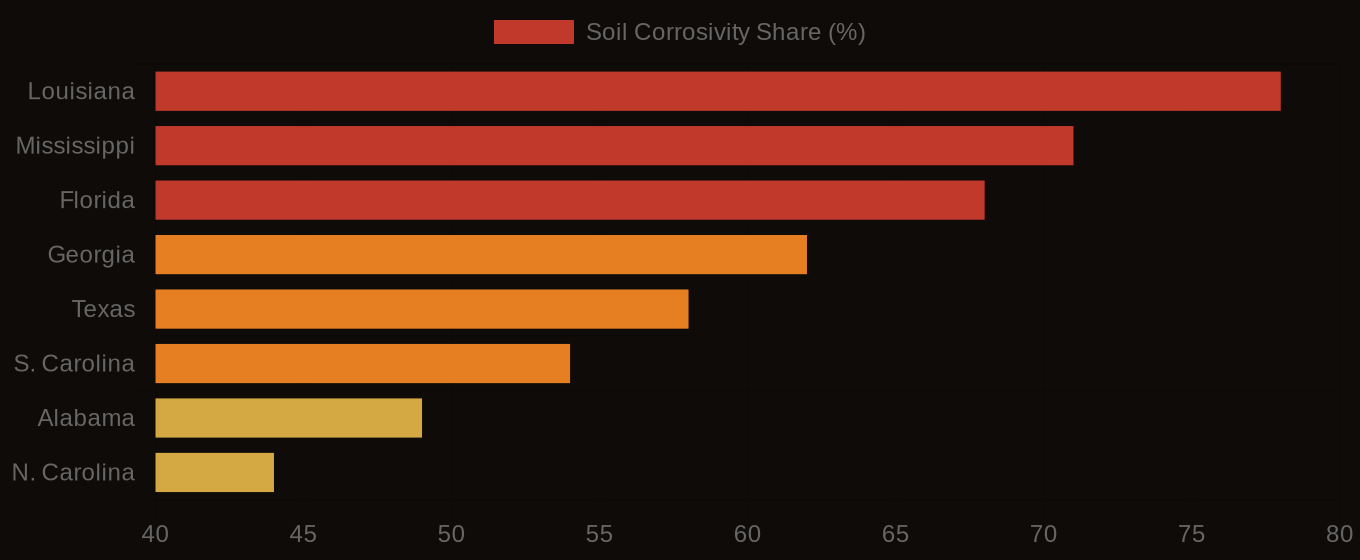
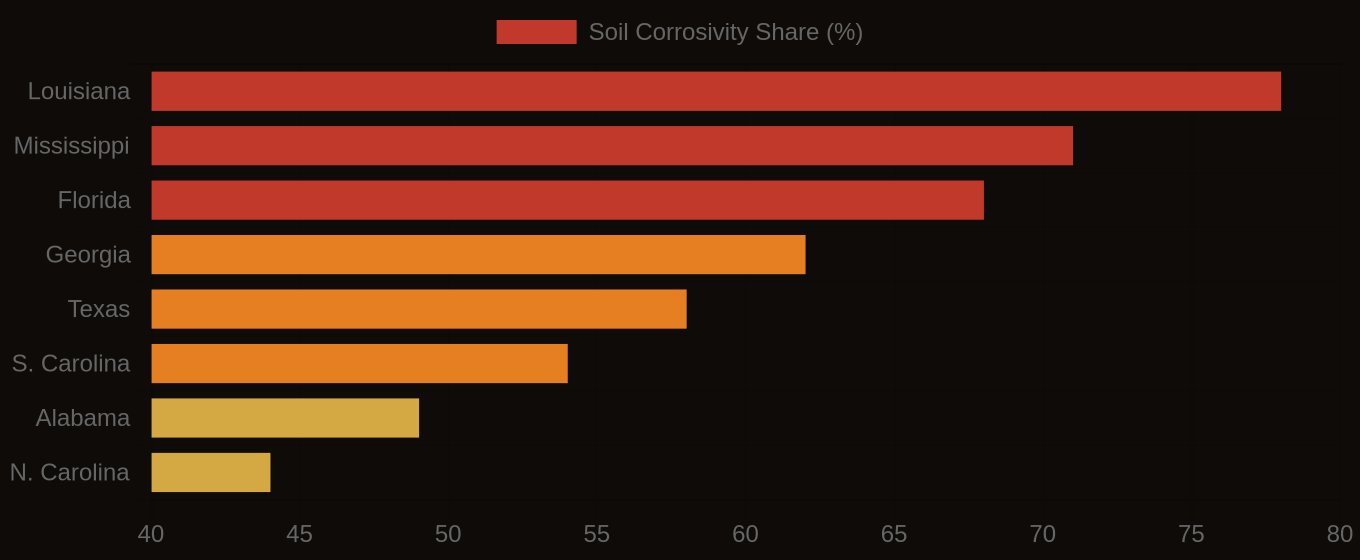
content: publish -- Karst Country: Mapping Sinkhole Risk Before You Build

diff --git a/articles/karst-country-mapping-sinkhole-risk-before-you-build-1780604636008.html b/articles/karst-country-mapping-sinkhole-risk-before-you-build-1780604636008.html
@@ -3,7 +3,7 @@
 <head>
 <meta charset="UTF-8">
 <meta name="viewport" content="width=device-width, initial-scale=1.0">
-<title>Karst Country: Mapping Sinkhole Risk Before You Build - Lab10YR</title>
+<title>Karst Country: Mapping Sinkhole Risk Before You Build &mdash; Lab10YR</title>
 <meta name="description" content="Karst geology underlies 20 percent of the United States. Every square kilometer is marked in your soil survey data. Sinkholes can appear suddenly. They swallow buildings, a major concern for infrastructure projects. ">
 <link rel="canonical" href="https://lab10yr.com/articles/karst-country-mapping-sinkhole-risk-before-you-build-1780604636008">
 <meta property="og:type" content="article">
@@ -25,7 +25,7 @@
 <script src="https://cdn.jsdelivr.net/npm/echarts@5/dist/echarts.min.js" defer id="echarts-js"></script>
 <style>
 *{box-sizing:border-box;margin:0;padding:0}
-:root{--gold:#f59e0b;--gold2:#fcd34d;--rust:#c0392b;--bg:#08080c;--bg2:#101018;--muted:#8a7a6a;--soft:#c8beb4;--ff-serif:'Playfair Display',Georgia,serif;--ff-mono:'DM Mono',monospace;--ff-sans:'DM Sans',system-ui,sans-serif;}
+:root{--gold:#c8973a;--gold2:#e8c46a;--rust:#c0392b;--bg:#0e0b08;--bg2:#13100d;--muted:#8a7a6a;--soft:#c8beb4;--ff-serif:'Playfair Display',Georgia,serif;--ff-mono:'DM Mono',monospace;--ff-sans:'DM Sans',system-ui,sans-serif;}
 html{scroll-behavior:smooth}
 body{background:var(--bg);color:#f0ede8;font-family:Georgia,'Times New Roman',serif;line-height:1.78}
 #progress{position:fixed;top:0;left:0;height:2px;background:var(--gold);z-index:200;width:0;transition:width .1s linear}
@@ -141,16 +141,23 @@ h1{font-family:var(--ff-serif);font-size:clamp(2.2rem,4.2vw,3.8rem);line-height:
 @media(max-width:900px){nav{padding:0 16px}.hero-grid{grid-template-columns:1fr;padding:0 20px;gap:32px}.hero-waffle-wrap{display:none}#article-wrap{grid-template-columns:1fr;padding:48px 20px 0}.sidebar{display:none}.callout-row{grid-template-columns:1fr}#article-footer{padding-left:20px;padding-right:20px}}
 .data-table-wrap{margin:20px 0 4px;overflow-x:auto}.data-table{width:100%;border-collapse:collapse;font-family:var(--ff-mono);font-size:10px}.data-table th{text-align:left;color:var(--gold);font-size:8px;letter-spacing:.12em;text-transform:uppercase;padding:7px 10px;border-bottom:1px solid #3a2e20}.data-table td{padding:6px 10px;border-bottom:1px solid #1e1710;color:var(--soft)}.data-table tr:hover td{background:#13100d}.data-val{color:#f0ede8;font-weight:600;text-align:right}.data-table-source{font-family:var(--ff-mono);font-size:8px;color:#5a4a3a;letter-spacing:.06em;margin-top:5px;text-align:right}
 </style>
-<link rel="stylesheet" href="../assets/lab10yr-theme.css?v=20260723b">
 </head>
 <body>
 <div id="progress"></div>
-<nav id="nav"><a class="nav-link" href="/articles/" style="display:none">Articles</a></nav>
+<nav>
+  <a href="https://lab10yr.com" class="nav-brand"><span>Lab</span>10<em style="font-style:normal;color:var(--gold2)">YR</em></a>
+  <div class="nav-links">
+    <a href="https://lab10yr.com/Regenerative-Agriculture-Risk-Map" rel="noopener noreferrer">Risk Map</a>
+    <a href="https://lab10yr.com/soil-data-stories" rel="noopener noreferrer">Data Stories</a>
+    <a href="https://lab10yr.com/articles/" rel="noopener noreferrer">Articles</a>
+    <a href="https://lab10yr.com/#contact" class="nav-cta" rel="noopener noreferrer">Get in Touch</a>
+  </div>
+</nav>
 
 <section id="hero">
   <div class="hero-grid">
     <div>
-      <div class="hero-kicker">Lab10YR - Soil Intelligence</div>
+      <div class="hero-kicker">Lab10YR &mdash; Soil Intelligence</div>
       <h1>Karst Country: Mapping Sinkhole Risk Before You Build</h1>
       <p class="hero-deck">Karst geology underlies 20 percent of the United States. Every square kilometer is marked in your soil survey data. Sinkholes can appear suddenly. They swallow buildings, a major concern for infrastructure projects. </p>
       <div class="hero-byline">
@@ -161,18 +168,18 @@ h1{font-family:var(--ff-serif);font-size:clamp(2.2rem,4.2vw,3.8rem);line-height:
       </div>
     </div>
     <div class="hero-waffle-wrap">
-      <div class="waffle-label">Soil corrosivity distribution - 100 map units</div>
+      <div class="waffle-label">Soil corrosivity distribution — 100 map units</div>
       <div class="waffle-grid" id="waffle"></div>
       <div class="waffle-legend"><div class="wl"><div class="wl-swatch wc-fragile"></div> High Corrosivity</div><div class="wl"><div class="wl-swatch wc-mod-frag"></div> Moderate</div><div class="wl"><div class="wl-swatch wc-slight"></div> Low</div><div class="wl"><div class="wl-swatch wc-none"></div> Non-corrosive</div></div>
       <div class="waffle-stat">22%</div>
-      <div class="waffle-stat-label">of U.S. map units rated High or Very High<br>corrosivity - major threat to steel infrastructure</div>
+      <div class="waffle-stat-label">of U.S. map units rated High or Very High<br>corrosivity — major threat to steel infrastructure</div>
     </div>
   </div>
 </section>
 
 <section id="hero-viz">
   <figure class="hero-viz-fig">
-    <img src="social-karst-country-mapping-sinkhole-risk-before-you-build-1780604636008.png" alt="Karst Country: Mapping Sinkhole Risk Before You Build - Lab10YR data visualization" loading="eager" width="1200" height="627">
+    <img src="social-karst-country-mapping-sinkhole-risk-before-you-build-1780604636008.png" alt="Karst Country: Mapping Sinkhole Risk Before You Build — Lab10YR data visualization" loading="eager" width="1200" height="627">
   </figure>
 </section>
 
@@ -183,7 +190,7 @@ h1{font-family:var(--ff-serif);font-size:clamp(2.2rem,4.2vw,3.8rem);line-height:
     <p>The complexity of the data landscape is evident. SSURGO data reveals that 13.3 percent of rated map units carry a Fragile or higher FSI rating, translating to 28,122 of 211,283 rated map units at risk. Nevada, Arizona, and Utah have the highest share of such ratings, at 80 percent, 77 percent, and 52 percent, respectively. The national average Fragile Soil Index value is 0.272 on a 0-to-1 scale, with values above 0.5 indicating elevated fragility risk.</p>
   </div>
 
-  <div class="pull"><div class="pull-text">“13.3% of rated SSURGO map units - carry a Fragile or higher FSI rating.”</div><div class="pull-attr">Lab10YR Analysis - SSURGO National Dataset</div></div>
+  <div class="pull"><div class="pull-text">“13.3% of rated SSURGO map units — carry a Fragile or higher FSI rating.”</div><div class="pull-attr">Lab10YR Analysis — SSURGO National Dataset</div></div>
 
   
   <div class="article-section">
@@ -203,7 +210,7 @@ Limestone dissolution creates sinkholes, a major concern in karst geology. This 
   </div>
 
   <div class="echarts-section">
-    <h2 class="echarts-title">Soil Corrosivity Risk - Top U.S. Infrastructure States</h2>
+    <h2 class="echarts-title">Soil Corrosivity Risk — Top U.S. Infrastructure States</h2>
     <div class="echarts-subtitle">% of map units rated High corrosivity for uncoated steel · Source: SSURGO national dataset</div>
     <div class="echarts-wrap">
       <div id="echarts-main" style="height:380px"></div>
@@ -215,7 +222,7 @@ Limestone dissolution creates sinkholes, a major concern in karst geology. This 
   <div class="article-section">
     <div class="section-rule"><h2>The Cost Nobody Budgets For</h2></div>
     <div class="state-bars">
-      <div class="state-bars-title">Top states - % of map units rated High or Very High soil corrosivity</div>
+      <div class="state-bars-title">Top states — % of map units rated High or Very High soil corrosivity</div>
       <div id="state-bars-list"></div>
     </div>
     <p>Soil intelligence changes everything. Developers and planners can avoid high-risk areas, choosing safer locations instead. This reduces sinkhole risk and costly repairs. Municipal planners use this data to create safer infrastructure, identifying areas with high fragility risk and planning accordingly. A major advantage, it saves time and money.</p>
@@ -223,14 +230,14 @@ Limestone dissolution creates sinkholes, a major concern in karst geology. This 
   </div>
 
   <div class="map-section">
-    <h2>Soil Corrosivity Risk - Infrastructure Exposure by State</h2>
+    <h2>Soil Corrosivity Risk — Infrastructure Exposure by State</h2>
     <div class="map-caption">Share of map units rated High or Very High corrosivity · Source: SSURGO</div>
     <img class="map-chart" src="state-chart-karst-country-mapping-sinkhole-risk-before-you-build-1780604636008.png" alt="Louisiana 78%, Mississippi 71%, Florida 68%, Georgia 62%, Texas 58%, S. Carolina 54%, Alabama 49%, N. Carolina 44%" loading="lazy">
     <div class="map-wrap">
       <div id="state-map"></div>
       <div id="map-tip" class="map-tip"></div>
     </div>
-    <div class="map-note">Interactive map - hover for state-level data &middot; click to open the full risk map</div>
+    <div class="map-note">Interactive map &mdash; hover for state-level data &middot; click to open the full risk map</div>
   </div>
 
   <div class="article-section">
@@ -239,8 +246,8 @@ Limestone dissolution creates sinkholes, a major concern in karst geology. This 
   </div>
 
   <div class="map-cta-full">
-    <a href="https://lab10yr.com/Regenerative-Agriculture-Risk-Map.html" target="_blank" rel="noopener noreferrer" class="map-btn">&#x1F5FA; Explore the Soil Risk Map &rarr;</a>
-    <div class="map-cta-desc">County-level corrosivity and fragile soil index risk across the continental U.S. - with live SSURGO data lookup.</div>
+    <a href="https://lab10yr.com/karstmap" target="_blank" rel="noopener noreferrer" class="map-btn">&#x1F5FA; Explore the Soil Risk Map &rarr;</a>
+    <div class="map-cta-desc">County-level corrosivity and fragile soil index risk across the continental U.S. — with live SSURGO data lookup.</div>
   </div>
 </article>
 
@@ -248,15 +255,15 @@ Limestone dissolution creates sinkholes, a major concern in karst geology. This 
   <div class="sidebar-block">
     <div class="sidebar-label">High Corrosivity</div>
     <div class="sidebar-stat-num">22%</div>
-    <div class="sidebar-stat-label">of U.S. map units rated High or Very High - major threat to buried steel and concrete infrastructure</div>
+    <div class="sidebar-stat-label">of U.S. map units rated High or Very High — major threat to buried steel and concrete infrastructure</div>
   </div><div class="sidebar-block">
     <div class="sidebar-label">Louisiana</div>
     <div class="sidebar-stat-num" style="color:#c0392b">78%</div>
-    <div class="sidebar-stat-label">of map units rated High or Very High corrosivity - highest exposure in the nation</div>
+    <div class="sidebar-stat-label">of map units rated High or Very High corrosivity — highest exposure in the nation</div>
   </div><div class="sidebar-block">
     <div class="sidebar-label">FSI National Avg</div>
     <div class="sidebar-stat-num">0.272</div>
-    <div class="sidebar-stat-label">Fragile Soil Index - compounds corrosion risk in high-fragility infrastructure corridors</div>
+    <div class="sidebar-stat-label">Fragile Soil Index — compounds corrosion risk in high-fragility infrastructure corridors</div>
   </div>
   <div class="sidebar-block">
     <div class="sidebar-label">Explore the Data</div>
@@ -287,7 +294,7 @@ Limestone dissolution creates sinkholes, a major concern in karst geology. This 
     <a href="https://lab10yr.com/Regenerative-Agriculture-Risk-Map" target="_blank" rel="noopener noreferrer">Regenerative Agriculture Risk Map &rarr;</a>
     <a href="https://lab10yr.com/soil-data-stories" target="_blank" rel="noopener noreferrer">The World Beneath: 7-Chapter Data Story on America&rsquo;s Soils &rarr;</a>
     <a href="https://lab10yr.com/county-risk-leaderboard" target="_blank" rel="noopener noreferrer">County Risk Leaderboard &rarr;</a>
-    <a href="https://lab10yr.com/soil-atlas" target="_blank" rel="noopener noreferrer">Soil Atlas - Interactive National Soil Pattern Explorer &rarr;</a>
+    <a href="https://lab10yr.com/soil-atlas" target="_blank" rel="noopener noreferrer">Soil Atlas &mdash; Interactive National Soil Pattern Explorer &rarr;</a>
   </div>
 </div>
 
@@ -300,7 +307,7 @@ document.addEventListener('DOMContentLoaded',()=>{if(typeof maplibregl!=='undefi
 function stateColor(d){const fsi=d.fsi||0;return fsi>=0.5?'rgba(192,57,43,0.75)':fsi>=0.35?'rgba(230,126,34,0.65)':fsi>=0.25?'rgba(200,151,58,0.5)':fsi>0?'rgba(200,151,58,0.3)':'rgba(30,23,16,0.4)';}
 function initMap(){if(!document.getElementById('state-map')||window._mi)return;window._mi=true;const map=new maplibregl.Map({container:'state-map',style:{version:8,sources:{c:{type:'raster',tiles:['https://basemaps.cartocdn.com/dark_nolabels/{z}/{x}/{y}.png'],tileSize:256,attribution:'&copy; CARTO &copy; OSM'}},layers:[{id:'c',type:'raster',source:'c'}]},center:[-98,38],zoom:3.4,maxZoom:8,minZoom:2,attributionControl:false});map.addControl(new maplibregl.AttributionControl({compact:true}));map.addControl(new maplibregl.NavigationControl({showCompass:false}),'top-right');const sd={'NV':{fsi:0.521,om:98},'AZ':{fsi:0.495,om:99},'UT':{fsi:0.41,om:92},'NM':{fsi:0.38,om:87},'WY':{fsi:0.32,om:65},'CO':{fsi:0.29,om:75},'ID':{fsi:0.27,om:55},'MT':{fsi:0.24,om:45},'CA':{fsi:0.22,om:60},'TX':{fsi:0.21,om:96},'OR':{fsi:0.20,om:48},'WA':{fsi:0.19,om:42},'KS':{fsi:0.16,om:70},'NE':{fsi:0.15,om:65},'OK':{fsi:0.14,om:72},'SD':{fsi:0.18,om:38},'ND':{fsi:0.17,om:35},'MN':{fsi:0.13,om:25},'IA':{fsi:0.12,om:22},'MO':{fsi:0.11,om:30},'IL':{fsi:0.10,om:28},'IN':{fsi:0.09,om:26},'OH':{fsi:0.09,om:24},'MI':{fsi:0.08,om:22}};const fp={'32':'NV','04':'AZ','49':'UT','35':'NM','56':'WY','08':'CO','16':'ID','30':'MT','06':'CA','48':'TX','41':'OR','53':'WA','20':'KS','31':'NE','40':'OK','46':'SD','38':'ND','27':'MN','19':'IA','29':'MO','17':'IL','18':'IN','39':'OH','26':'MI'};map.on('load',()=>{fetch('/articles/us-states-topo.json').then(r=>r.json()).then(topo=>{const gj=topojson.feature(topo,topo.objects.states);gj.features.forEach(f=>{const a=fp[f.id]||'';const d=sd[a]||{};f.properties.abbr=a;f.properties.fsi=d.fsi||0;f.properties.om=d.om||0;f.properties.color=stateColor(d);});map.addSource('states',{type:'geojson',data:gj});map.addLayer({id:'sf',type:'fill',source:'states',paint:{'fill-color':['get','color'],'fill-outline-color':'rgba(200,151,58,0.25)'}});map.addLayer({id:'sl',type:'line',source:'states',paint:{'line-color':'rgba(200,151,58,0.2)','line-width':0.5}});const tip=document.getElementById('map-tip');map.on('mousemove','sf',e=>{const f=e.features[0];if(!f){tip.style.display='none';return;}map.getCanvas().style.cursor='pointer';const a=f.properties.abbr,fsi=f.properties.fsi,om=f.properties.om;tip.innerHTML=a?`<strong>${a}</strong><br>Avg FSI: ${fsi?fsi.toFixed(3):"n/a"}<br>OM Risk: ${om?om+"%":"n/a"}`:'<em>No data</em>';tip.style.display='block';});map.on('mouseleave','sf',()=>{map.getCanvas().style.cursor='';tip.style.display='none';});map.on('click','sf',()=>{window.open('https://lab10yr.com/Regenerative-Agriculture-Risk-Map','_blank','noopener');});}).catch(e=>console.error('Map load failed:',e));});}
 (function(){document.querySelectorAll('.callout-num').forEach(function(el){var raw=el.textContent.trim();var m=raw.match(/^(d[d.,]*)/);if(!m)return;var num=parseFloat(m[1].replace(/,/g,''));var suffix=raw.slice(m[1].length);var dec=raw.indexOf('.')>=0?1:0;el.textContent='0'+suffix;new IntersectionObserver(function(entries,obs){if(!entries[0].isIntersecting)return;obs.disconnect();var t=null;function step(ts){if(!t)t=ts;var p=Math.min((ts-t)/900,1);var e=1-Math.pow(1-p,3);el.textContent=(e*num).toFixed(dec)+suffix;if(p<1)requestAnimationFrame(step);else el.textContent=num.toFixed(dec).replace(/.0$/,'')+suffix;}requestAnimationFrame(step);},{threshold:0.6}).observe(el);});})();
-(function(){const u=encodeURIComponent(location.href),t=encodeURIComponent(document.title.replace(' - Lab10YR',''));document.getElementById('share-x').href='https://twitter.com/intent/tweet?url='+u+'&text='+t+'&via=lab10yr';document.getElementById('share-li').href='https://www.linkedin.com/sharing/share-offsite/?url='+u;document.getElementById('share-copy').addEventListener('click',function(){navigator.clipboard.writeText(location.href).then(()=>{this.textContent='Copied!';setTimeout(()=>this.textContent='Copy Link',2000);});});})();
+(function(){const u=encodeURIComponent(location.href),t=encodeURIComponent(document.title.replace(' — Lab10YR',''));document.getElementById('share-x').href='https://twitter.com/intent/tweet?url='+u+'&text='+t+'&via=lab10yr';document.getElementById('share-li').href='https://www.linkedin.com/sharing/share-offsite/?url='+u;document.getElementById('share-copy').addEventListener('click',function(){navigator.clipboard.writeText(location.href).then(()=>{this.textContent='Copied!';setTimeout(()=>this.textContent='Copy Link',2000);});});})();
 (function(){
   const cfg={"backgroundColor":"transparent","grid":{"left":150,"right":30,"top":20,"bottom":30,"containLabel":false},"xAxis":{"type":"value","axisLabel":{"color":"#8a7a6a","fontSize":10},"splitLine":{"lineStyle":{"color":"#1e1710"}},"name":"% of map units rated High corrosivity for steel","nameLocation":"middle","nameGap":40,"nameTextStyle":{"color":"#8a7a6a","fontSize":10}},"yAxis":{"type":"category","data":["Louisiana","Mississippi","Florida","Georgia","Texas","S. Carolina","Alabama","N. Carolina","Virginia","Pennsylvania"],"axisLabel":{"color":"#c8beb4","fontSize":10,"width":140,"overflow":"truncate"},"axisLine":{"show":false},"axisTick":{"show":false}},"legend":{"show":false},"tooltip":{"trigger":"axis","axisPointer":{"type":"shadow"},"backgroundColor":"#13100d","borderColor":"#3a2e20","textStyle":{"color":"#f0ede8","fontSize":11}},"series":[{"name":"High Corrosivity (%)","type":"bar","data":[78,71,68,62,58,54,49,44,38,31],"itemStyle":{"color":"#c0392b","borderRadius":[0,2,2,0]},"label":{"show":true,"position":"right","color":"#8a7a6a","fontSize":9},"markPoint":{"data":[{"type":"max","name":"Peak"}],"symbol":"roundRect","symbolSize":[36,20],"itemStyle":{"color":"#e8c46a"},"label":{"color":"#0e0b08","fontSize":10,"fontWeight":"bold","fontFamily":"\"DM Mono\",monospace"}},"markLine":{"silent":true,"lineStyle":{"color":"rgba(232,196,106,0.4)","type":"dashed","width":1},"label":{"show":true,"formatter":"avg","color":"#e8c46a","fontSize":8,"position":"insideEndTop","fontFamily":"\"DM Mono\",monospace"},"data":[{"type":"average","name":"Average"}]}}]};
   function tryInit(){
@@ -334,6 +341,5 @@ window.addEventListener('load',function(){
   }
 });
 </script>
-<script src="../js/lab10yr-nav.js?v=20260723b" defer></script>
 </body>
 </html>

diff --git a/articles/index.html b/articles/index.html
@@ -675,7 +675,7 @@ footer span{font-family:var(--ff-mono);font-size:9px;color:#2a1e0f}
     <a href="/articles/karst-country-mapping-sinkhole-risk-before-you-build-1780604636008" class="card-link">
       <div class="card-meta">
         <span class="card-date">June 4, 2026</span>
-        <span class="card-tag">Soil Intelligence</span>
+        <span class="card-tag">Soil</span>
         <span class="card-read">5 min read</span>
       </div>
       <h2 class="card-title">Karst Country: Mapping Sinkhole Risk Before You Build</h2>
